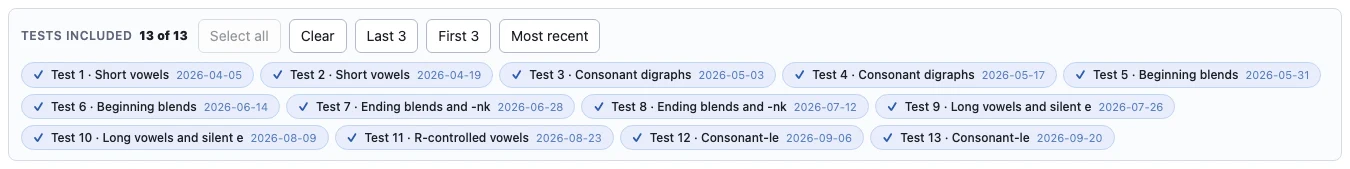
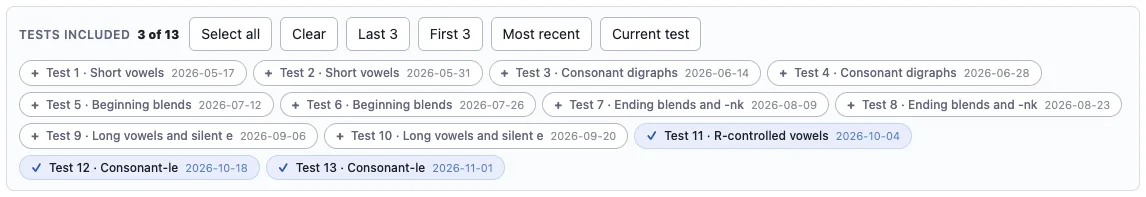
Share one test selection across every report tab
The chips that choose which tests a report covers were per-page state, so
a span lined up on one tab was gone the moment you looked at the same
tests from another angle. They now share one selection.

Each tab keeps the starting point it had: a profile opens on the whole
year, a report tab on the test chosen in the toolbar. The moment any
picker is touched, that choice becomes the selection everywhere.

An explicit choice also no longer resets when the toolbar test changes,
which is what made selections evaporate on a detour to the spelling grid
to enter data. A "Current test" shortcut goes back to following the
toolbar deliberately, since that reset is no longer automatic.

Changing the test list still returns every tab to its default, because a
selection that quietly means something different from what was chosen is
worse than one that has visibly reset.

Changed region(s): [[0.0, 0.2959, 0.9773, 0.9172], [0.0, 0.0296, 1.0, 0.2663], [0.0, 0.9467, 1.0, 0.9763]]

diff --git a/src/state/useSelectedTests.tsx b/src/state/useSelectedTests.tsx
@@ -1,0 +1,126 @@
+import { createContext, useContext, useEffect, useMemo, useState, type ReactNode } from 'react'
+import { useStore } from './store'
+import { useAllTests } from './useAnalysis'
+import { testsInOrder, type ReportSource } from '../reports/aggregate'
+import type { Test } from './types'
+
+/**
+ * Which tests a report covers, and their analyses.
+ *
+ * Every report can be widened from one test to a whole term, so the selection
+ * state, the reset rules and the wording of the scope all live here rather than
+ * being written out once per page.
+ */
+/**
+ * The one selection every report tab shares.
+ *
+ * `null` means the teacher has not chosen yet, and each page falls back to its
+ * own sensible default — a profile to the whole year, a report tab to the test
+ * chosen in the toolbar. The moment any picker is touched, that choice becomes
+ * the selection everywhere, because moving between tabs to look at the same
+ * span of tests from different angles is the whole point of having the tabs.
+ */
+const SharedSelection = createContext<{
+  explicit: Set<string> | null
+  choose: (next: Set<string>) => void
+} | null>(null)
+
+export function SelectedTestsProvider({ children }: { children: ReactNode }) {
+  const { project } = useStore()
+  const [explicit, setExplicit] = useState<Set<string> | null>(null)
+
+  /*
+   * A changed test list — a demo loaded, a test added or deleted — can leave a
+   * selection pointing at tests that no longer exist. It goes back to the
+   * per-page default rather than being quietly repaired, because a selection
+   * that silently means something different from what was chosen is worse than
+   * one that has visibly reset.
+   */
+  const testIds = project.tests.map((t) => t.id).join(',')
+  useEffect(() => {
+    setExplicit(null)
+  }, [testIds])
+
+  const value = useMemo(() => ({ explicit, choose: setExplicit }), [explicit])
+  return <SharedSelection.Provider value={value}>{children}</SharedSelection.Provider>
+}
+
+export interface SelectedTests {
+  loading: boolean
+  error: string | null
+  /** Every test, oldest first — what the picker lists. */
+  tests: Test[]
+  selected: Set<string>
+  setSelected: (next: Set<string>) => void
+  /** The selected tests with their analyses, ready for buildReportsAcross. */
+  sources: ReportSource[]
+  /** "Unit 4 · 2026-01-10", or "3 tests · 2026-01-10 to 2026-03-10". */
+  scopeLabel: string
+  /** A short form for file names: one test's name, or "3 tests". */
+  scopeSlug: string
+  /**
+   * The date to file this export under: the test's own date when it covers a
+   * single test, which is what a teacher will look for it by, otherwise today.
+   */
+  scopeDate: string
+}
+
+/**
+ * @param defaultTo what this page shows before the teacher has chosen anything.
+ *   'active' follows the test chosen in the toolbar, which keeps the report tabs
+ *   behaving as they always have. 'all' starts from everything, which is what a
+ *   student profile wants. Once any picker is touched the shared choice wins and
+ *   this no longer applies — see {@link SelectedTestsProvider}.
+ */
+export function useSelectedTests(defaultTo: 'active' | 'all'): SelectedTests {
+  const { project } = useStore()
+  const shared = useContext(SharedSelection)
+  const tests = useMemo(() => testsInOrder(project), [project])
+  const all = useAllTests(project, true)
+
+  // Recomputed rather than stored, so a page still on its default keeps step
+  // with the toolbar as the teacher moves between tests to enter data.
+  const fallback = useMemo(
+    () =>
+      new Set(
+        defaultTo === 'all'
+          ? tests.map((t) => t.id)
+          : ([project.activeTestId ?? tests[0]?.id].filter(Boolean) as string[]),
+      ),
+    [defaultTo, tests, project.activeTestId],
+  )
+
+  const selected = shared?.explicit ?? fallback
+
+  const sources: ReportSource[] = useMemo(() => {
+    if (all.loading) return []
+    return tests
+      .filter((t) => selected.has(t.id))
+      .map((test) => ({ test, analysis: all.byTest.get(test.id)! }))
+      .filter((s) => s.analysis)
+  }, [tests, selected, all.byTest, all.loading])
+
+  const scopeLabel =
+    sources.length === 0
+      ? 'No tests selected'
+      : sources.length === 1
+        ? `${sources[0].test.name} · ${sources[0].test.date}`
+        : `${sources.length} tests · ${sources[0].test.date} to ${sources[sources.length - 1].test.date}`
+
+  const scopeSlug = sources.length === 1 ? sources[0].test.name : `${sources.length} tests`
+  const scopeDate = sources.length === 1 ? sources[0].test.date : new Date().toISOString().slice(0, 10)
+
+  if (!shared) throw new Error('useSelectedTests outside SelectedTestsProvider')
+
+  return {
+    loading: all.loading,
+    error: all.error,
+    tests,
+    selected,
+    setSelected: shared.choose,
+    sources,
+    scopeLabel,
+    scopeSlug,
+    scopeDate,
+  }
+}

diff --git a/src/components/TestPicker.tsx b/src/components/TestPicker.tsx
@@ -1,3 +1,4 @@
+import { useStore } from '../state/store'
 import type { Test } from '../state/types'
 
 /**
@@ -8,6 +9,9 @@ import type { Test } from '../state/types'
  * annual review, one test for a specific lesson, or everything for a full
  * picture. Toggling individual tests covers all of those, and the shortcuts
  * cover the common ones in a click.
+ *
+ * The choice made here is shared by every report tab, so the span a teacher
+ * picks once follows them around the app.
  */
 export function TestPicker({
   tests,
@@ -19,6 +23,7 @@ export function TestPicker({
   selected: Set<string>
   onChange: (next: Set<string>) => void
 }) {
+  const { project } = useStore()
   const set = (ids: string[]) => onChange(new Set(ids))
 
   const toggle = (id: string) => {
@@ -32,6 +37,17 @@ export function TestPicker({
   const firstN = (n: number) => set(tests.slice(0, n).map((t) => t.id))
 
   const allSelected = selected.size === tests.length && tests.length > 0
+
+  /*
+   * Back to following the toolbar in one click.
+   *
+   * Before the selection was shared, a report tab reset itself to whichever
+   * test was chosen in the toolbar. Now that a deliberate choice sticks, this
+   * is how you get that behaviour back rather than hunting for the test in the
+   * list below.
+   */
+  const active = tests.find((t) => t.id === project.activeTestId)
+  const onlyActive = active !== undefined && selected.size === 1 && selected.has(active.id)
 
   return (
     <div className="testpicker no-print">
@@ -60,6 +76,14 @@ export function TestPicker({
         </button>
         <button className="btn" disabled={tests.length === 0} onClick={() => lastN(1)}>
           Most recent
+        </button>
+        <button
+          className="btn"
+          disabled={active === undefined || onlyActive}
+          title={active ? `Just ${active.name}, the test chosen in the toolbar` : undefined}
+          onClick={() => active && set([active.id])}
+        >
+          Current test
         </button>
       </div>
 

diff --git a/src/App.tsx b/src/App.tsx
@@ -4,6 +4,7 @@ import { useAnalysis } from './state/useAnalysis'
 import { readProjectFile } from './state/persist'
 import { DownloadProvider } from './components/DownloadProvider'
 import { ProjectFileProvider, useProjectFile } from './state/ProjectFileProvider'
+import { SelectedTestsProvider } from './state/useSelectedTests'
 import { demoProject, DEMO_STUDENT_COUNT } from './state/demo'
 import { emptyProject } from './state/types'
 import { ConfirmDialog } from './components/ConfirmDialog'
@@ -39,7 +40,9 @@ export function App() {
   return (
     <DownloadProvider>
       <ProjectFileProvider>
-        <Workspace />
+        <SelectedTestsProvider>
+          <Workspace />
+        </SelectedTestsProvider>
       </ProjectFileProvider>
     </DownloadProvider>
   )

diff --git a/content/help/03-student-profile.md b/content/help/03-student-profile.md
@@ -15,7 +15,25 @@ The row of chips under the toolbar decides which tests the page covers.
 
 Click a test to add or remove it, or use the shortcuts:
 
-- **Select all**, **Clear**,  **Last 3**, **First 3**, **Most recent** 
+- **Select all**, **Clear**,  **Last 3**, **First 3**, **Most recent**
+- **Current test** picks just the one showing in the toolbar dropdown
+
+### The tests you pick follow you between tabs
+
+Choose a span once and every report tab shows the same one, so you can look at
+the same three tests as graphemes, then as phonemes, then as confusions, without
+setting it up again on each tab.
+
+It stays put until you change it — including when you switch tests in the
+toolbar to enter data, so a span you lined up for a meeting is not lost by a
+detour to the spelling grid. **Current test** is how you deliberately go back to
+following the toolbar.
+
+Until you touch a picker, each tab starts where it makes sense for that tab: a
+profile on your whole year, a report tab on the test in the toolbar. Adding or
+deleting a test puts them back to those starting points, because a selection
+that quietly means something different from what you chose is worse than one
+that has visibly reset.
 
 Everything on the page pools across whatever you have selected, so the same page
 serves a single lesson's test, a "how is it going" conversation, and a whole

diff --git a/content/help/05-accuracy-by-grapheme.md b/content/help/05-accuracy-by-grapheme.md
@@ -17,9 +17,13 @@ they cover is correct.
 ## It pools across whatever tests you choose
 
 The test picker at the top works exactly as it does on the student profile. Click
-chips to add or remove tests, or use **Select all**, **Last 3**, **First 3** and
-**Most recent**.  More tests will add more data and make differences more 
-statistically valid, but averaging over larger time periods can obscure growth.
+chips to add or remove tests, or use **Select all**, **Last 3**, **First 3**,
+**Most recent** and **Current test**.  More tests will add more data and make
+differences more statistically valid, but averaging over larger time periods can
+obscure growth.
+
+Whatever you choose here is what every other report tab shows too, so you can
+carry the same span of tests across the reports without setting it up again.
 
 ## Counting amber
 
